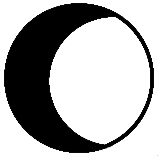
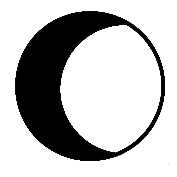
Completed Soul Eclipse Chart: Added the ability to click the moons and have them show a red X.  Added ability to save moon state.

Changed region(s): [[0.0253, 0.0, 0.9873, 1.0], [0.9873, 0.9744, 1.0, 1.0]]

diff --git a/magi-knight-awakening/src/components/EclipseChart.vue b/magi-knight-awakening/src/components/EclipseChart.vue
@@ -2,10 +2,23 @@
 import { useSheetStore } from '@/stores/sheetStore';
 const sheet = useSheetStore();
 
-// Method to toggle between three image states
+// Method to toggle between two image states for moons
+const cycleMoonState = (index) => {
+  const currentMoon = sheet.eclipse[index];
+  sheet.eclipse[index] = (currentMoon + 1) % 2; // Toggle between 0 and 1
+};
+
+// Function to get the correct moon image based on its state
+const getMoonImage = (index) => {
+  const moonState = sheet.eclipse[index]; // Get the current state of the moon
+  return moonState === 0
+    ? `--moon${index + 1}Image` // Default moon image
+    : `--xmoon${index + 1}Image`; // Clicked state moon image
+};
+
+// Method to toggle between three image states for blips
 const cycleBlipState = (index) => {
   const currentBlip = sheet.eclipse_blips[index];
-  // Cycle between three states (0, 1, 2) representing three different images
   sheet.eclipse_blips[index] = (currentBlip + 1) % 3;
 };
 
@@ -29,28 +42,43 @@ const getBlipImage = (index) => {
 <div class="eclipse-container" :style="`--_phase:${sheet.eclipse_phase}`">
   <div class="eclipse-grid">
     <span class="eclipse-label" v-html="sheet.eclipse_phase"></span>
-    <input type="checkbox" :class="`moon moon-${num}`" v-for="num in [1,2,3,4,5,6,7,8]" v-model="sheet.eclipse" :true-value="num" :false-value="0" :key="`eclipse-${num}`">
+    <!-- Moons: Toggle between two states -->
+    <input
+      type="checkbox"
+      :class="`moon moon-${num}`"
+      v-for="num in [1,2,3,4,5,6,7,8]"
+      @click="cycleMoonState(num - 1)"
+      :key="`eclipse-moon-${num}`"
+      :checked="sheet.eclipse[num - 1] === 1"
+      :style="{
+        backgroundSize: 'contain',
+        backgroundRepeat: 'no-repeat',
+        backgroundPosition: 'center',
+        backgroundImage: `var(${getMoonImage(num - 1)})`
+    }"
+    />
   </div>
+  
   <div class="eclipse-grid">
-      <!-- Click on blips to cycle between images -->
-      <input
-        type="checkbox"
-        :class="`blip blip-${num}`"
-        v-for="num in [1,2,3,4,5,6,7,8]"
-        @click="cycleBlipState(num)"
-        :key="`eclipse-blip-${num}`"
-        :style="{
-          backgroundSize: 'contain',
-          backgroundRepeat: 'no-repeat',
-          backgroundPosition: 'center',
-          backgroundImage: `var(${getBlipImage(num)})`
-        }"
-      />
-    </div>
+    <input
+      type="checkbox"
+      :class="`blip blip-${num}`"
+      v-for="num in [1,2,3,4,5,6,7,8]"
+      @click="cycleBlipState(num - 1)"
+      :key="`eclipse-blip-${num}`"
+      :style="{
+        backgroundSize: 'contain',
+        backgroundRepeat: 'no-repeat',
+        backgroundPosition: 'center',
+        backgroundImage: `var(${getBlipImage(num - 1)})`
+      }"
+    />
+  </div>
 </div>
 </template>
 
 <style lang="scss">
+/* Styles remain the same */
 .eclipse-container{
   container: eclipse-container / size;
   display: grid;
@@ -60,18 +88,8 @@ const getBlipImage = (index) => {
   > *{
     grid-area: content;
   }
-  // test code for generating dynamic terminator line
-  // &:before{
-  //   content: '';
-  //   z-index: -1;
-  //   grid-area: content;
-  //   width: 100%;
-  //   height: 100%;
-  //   background: {
-  //     image: conic-gradient(from 180deg at 50% 50%, #e3b7d6 0%, #3656a6 25%, #000 50%, #05030300 50%);
-  //   }
-  // }
 }
+
 .eclipse-grid{
   --_size: clamp(35px,15cqmin,60px);
   --_borderWidth: 5cqmin;
@@ -92,8 +110,9 @@ const getBlipImage = (index) => {
     grid-area: content;
   }
 }
+
 .moon{
-  width: calc(var(--_size) * 1.2);
+  width: calc(var(--_size) * 1.4);
   aspect-ratio: 1 / 1;
   border-radius: 50%;
   background: {
@@ -110,11 +129,11 @@ const getBlipImage = (index) => {
   &:not(:checked){
     filter:opacity(1);
   }
+  
   $circleNum: 8;
   @for $num from 0 to $circleNum{
     &:nth-of-type(#{$num + 1}){
       --_degrees: calc((#{$num} * 360deg / #{$circleNum}) - 45deg);
-      --_phaseRef: var(--moon#{$num + 1}Image);
     }
   }
 }
@@ -138,11 +157,11 @@ const getBlipImage = (index) => {
   &:not(:checked){
     filter:opacity(1);
   }
+
   $circleNum: 8;
   @for $num from 0 to $circleNum{
     &:nth-of-type(#{$num + 1}){
       --_degrees: calc((#{$num} * 360deg / #{$circleNum}) - 45deg);
-      --_phaseRef: var(${getBlipImage(num)});
     }
   }
 }

diff --git a/magi-knight-awakening/src/rollTemplates/styles/common.scss b/magi-knight-awakening/src/rollTemplates/styles/common.scss
@@ -48,6 +48,14 @@ rolltemplate.magiknight-template {
   --moon6Image:url('./moon6.png');
   --moon7Image:url('./moon7.png');
   --moon8Image:url('./moon8.png');
+  --xmoon1Image:url('./xmoon1.png');
+  --xmoon2Image:url('./xmoon2.png');
+  --xmoon3Image:url('./xmoon3.png');
+  --xmoon4Image:url('./xmoon4.png');
+  --xmoon5Image:url('./xmoon5.png');
+  --xmoon6Image:url('./xmoon6.png');
+  --xmoon7Image:url('./xmoon7.png');
+  --xmoon8Image:url('./xmoon8.png');
   --eclipseBorder:url('./eclipse-border.png');
   --blipImage:url('./eclipse-blip.png');
   --blipXImage:url('./eclipse-blip-x.png');

diff --git a/magi-knight-awakening/src/assets/variables.css b/magi-knight-awakening/src/assets/variables.css
@@ -39,6 +39,14 @@ html{
   --moon6Image:url('./moon6.png');
   --moon7Image:url('./moon7.png');
   --moon8Image:url('./moon8.png');
+  --xmoon1Image:url('./xmoon1.png');
+  --xmoon2Image:url('./xmoon2.png');
+  --xmoon3Image:url('./xmoon3.png');
+  --xmoon4Image:url('./xmoon4.png');
+  --xmoon5Image:url('./xmoon5.png');
+  --xmoon6Image:url('./xmoon6.png');
+  --xmoon7Image:url('./xmoon7.png');
+  --xmoon8Image:url('./xmoon8.png');
   --eclipseBorder: url('./eclipse-border.png');
   --blipImage:url('./eclipse-blip.png');
   --blipXImage:url('./eclipse-blip-x.png');

diff --git a/magi-knight-awakening/src/stores/sheetStore.js b/magi-knight-awakening/src/stores/sheetStore.js
@@ -455,7 +455,7 @@ export const useSheetStore = defineStore('sheet',() => {
       elemental_enhancement_2: elemental_enhancement_2.value,
       skills: dehydrateNested(skills),
       abilityScores: dehydrateNested(abilityScores),
-      // eclipse:Math.max(0,...eclipse.value),
+      eclipse: [...eclipse.value],
       eclipse_blips: [...eclipse_blips.value],
       customProficiency: customProficiency.value,
       hp: dehydrateNested(hp),
